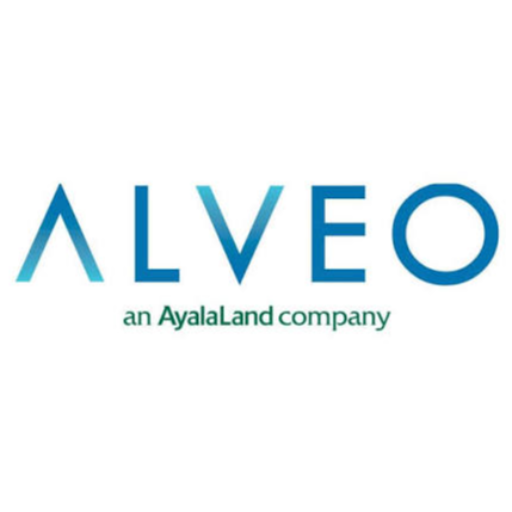
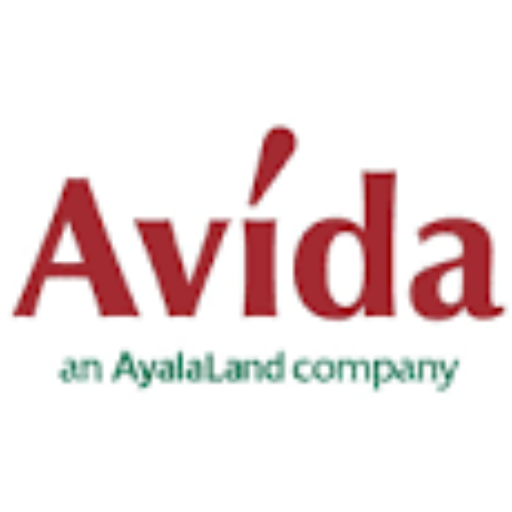
updated sidebar

Changed region(s): [[0.0, 0.2188, 1.0, 0.6562], [0.0938, 0.6875, 0.9062, 0.7812]]

diff --git a/app/components/adminsidebar.tsx b/app/components/adminsidebar.tsx
@@ -29,7 +29,7 @@ interface AdminSidebarProps {
   pathname: string;
 }
 
-const LOGO_SRC = "/alveo-logo.png";
+const LOGO_SRC = "/avida-logo.png";
 
 const fetcherWithAuth = async (url: string) => {
   const headers = getAuthHeaders();
